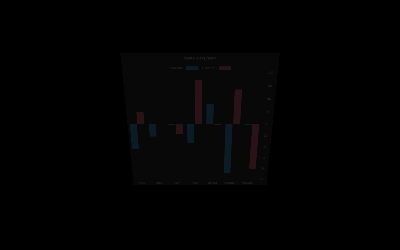
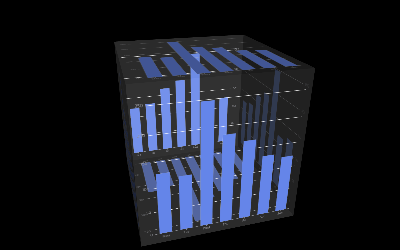
add 20220124

diff --git a/src/app/examples/ngx-echarts/ngx-echarts.component.ts b/src/app/examples/ngx-echarts/ngx-echarts.component.ts
@@ -32,7 +32,7 @@ export class NgxEChartsComponent extends NgxBaseComponent<{
 	constructor(private route: ActivatedRoute) {
 		super(
 			{
-				geometry: 'PlaneGeometry',
+				geometry: 'BoxGeometry',
 				chartType: 'bar',
 				width: 2,
 				height: 2,
